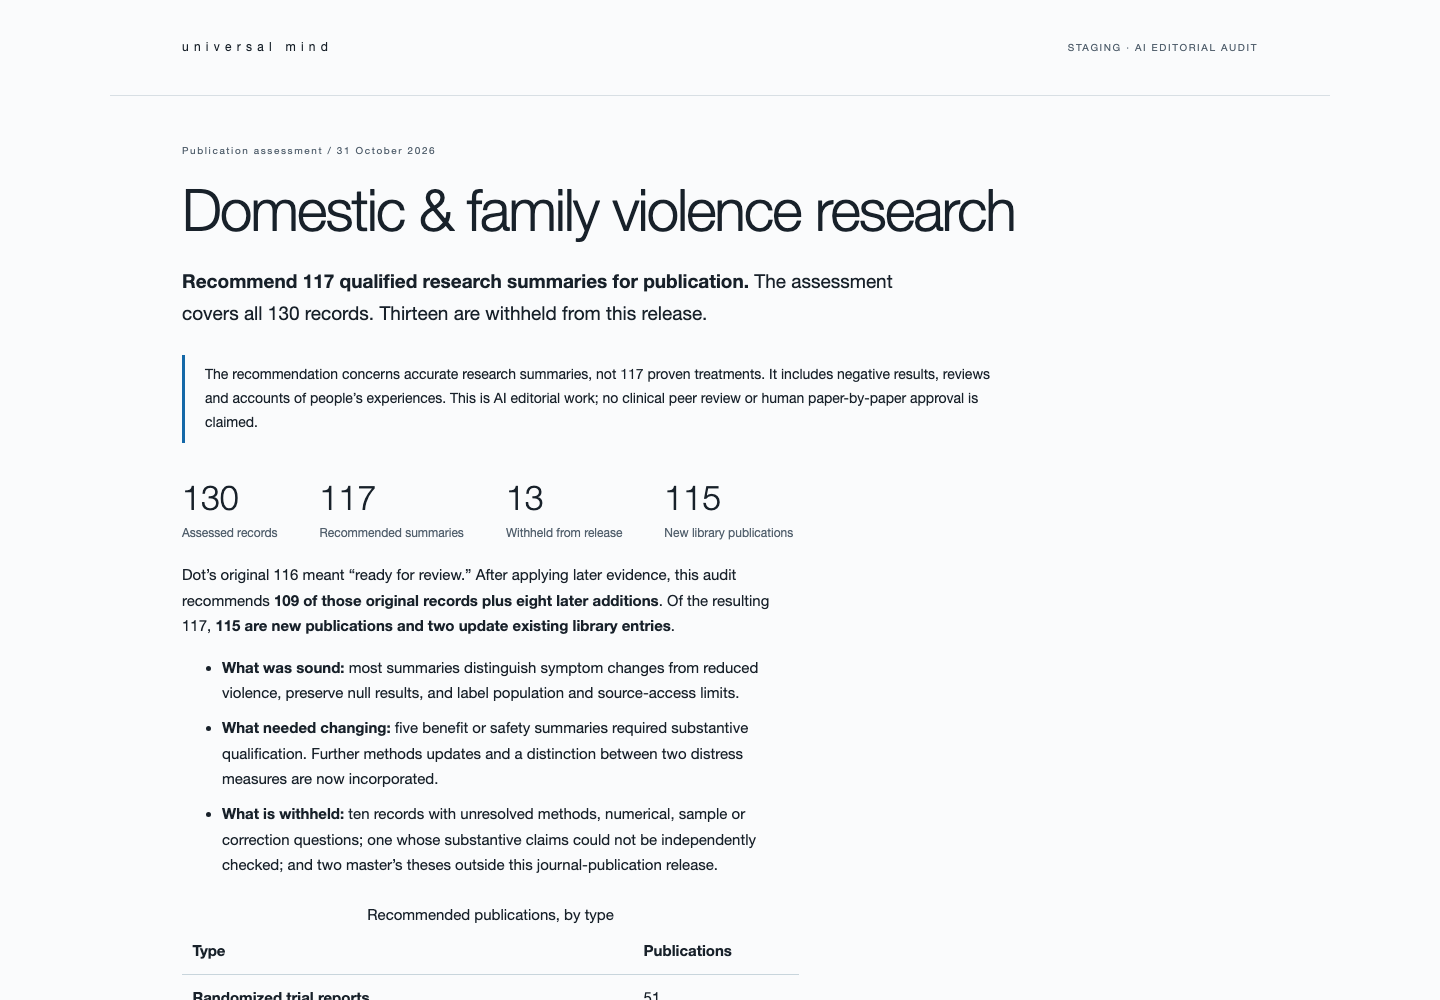
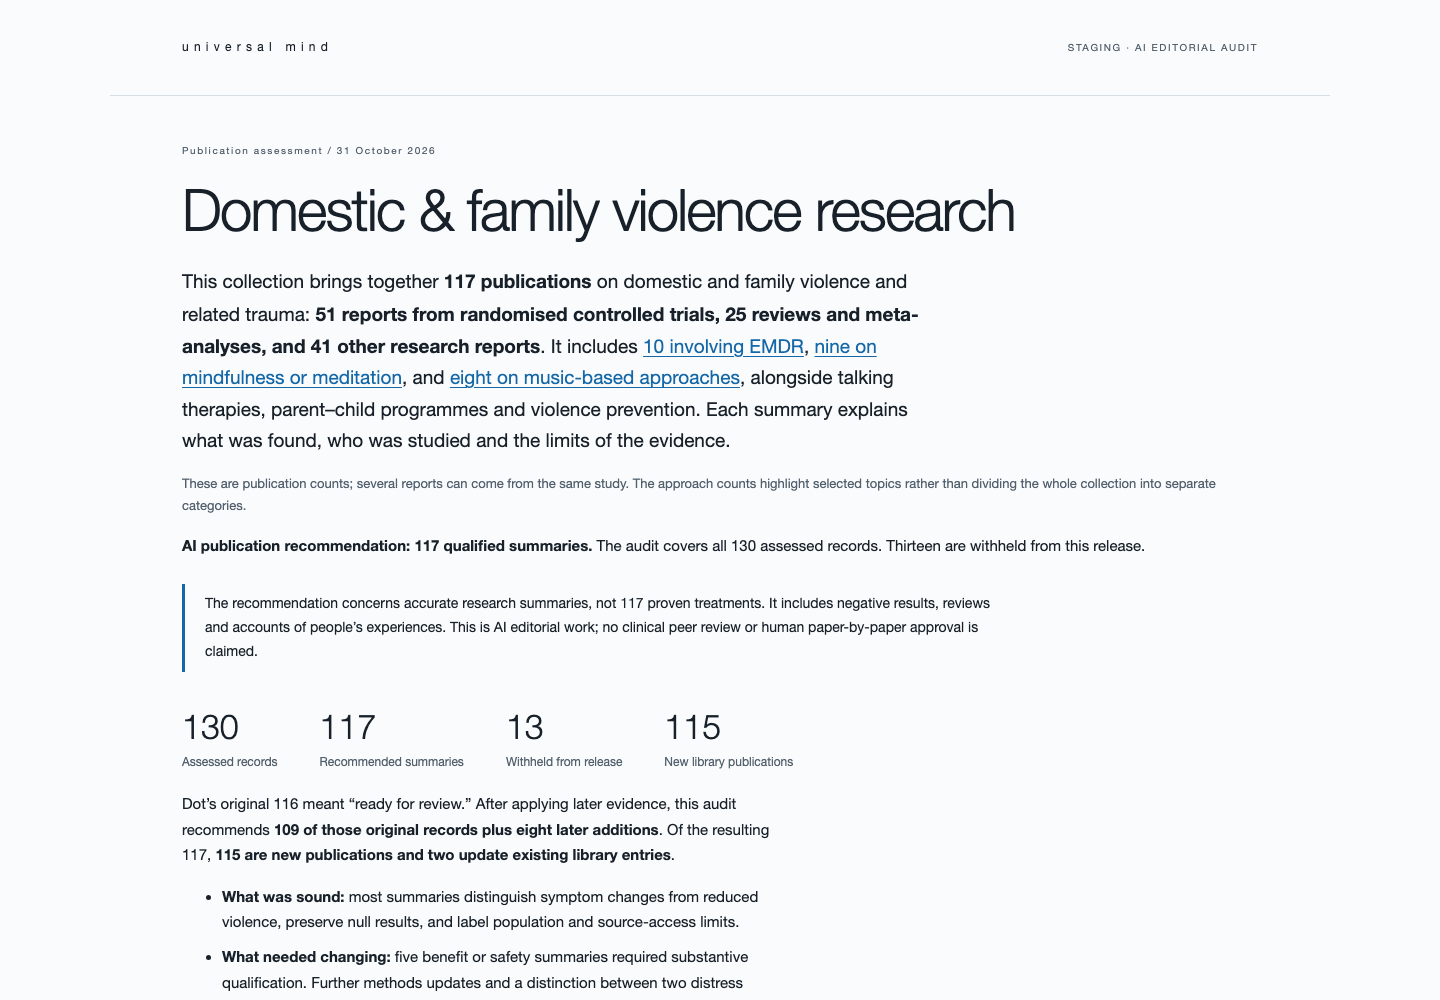
Record verified staging overview and research approach links

Changed region(s): [[0.125, 0.279, 0.8438, 1.0]]

diff --git a/research/informatics/dot-dv-20261031/RELEASE.md b/research/informatics/dot-dv-20261031/RELEASE.md
@@ -1,5 +1,7 @@
 # Verified staging audit
 
+Latest presentation update: source `2f2832b20924b1fb301a79e29758e627a5dfefdb`. The introductory paragraph explains the 51/25/41 publication types, with verified links to ten EMDR, nine mindfulness/meditation and eight music-based publications. Three changed assets uploaded; eleven live asset hashes and all three browser widths passed. All 130 audited assessment revisions remain unchanged.
+
 [Publication assessment](https://staging.universalmind.tv/informatics/review/domestic-violence-20261031/) · [Full audit](AUDIT.md)
 
 Source commit: `f0f9791fb21fef66ab8283ff920b2a6c492d78f3`
